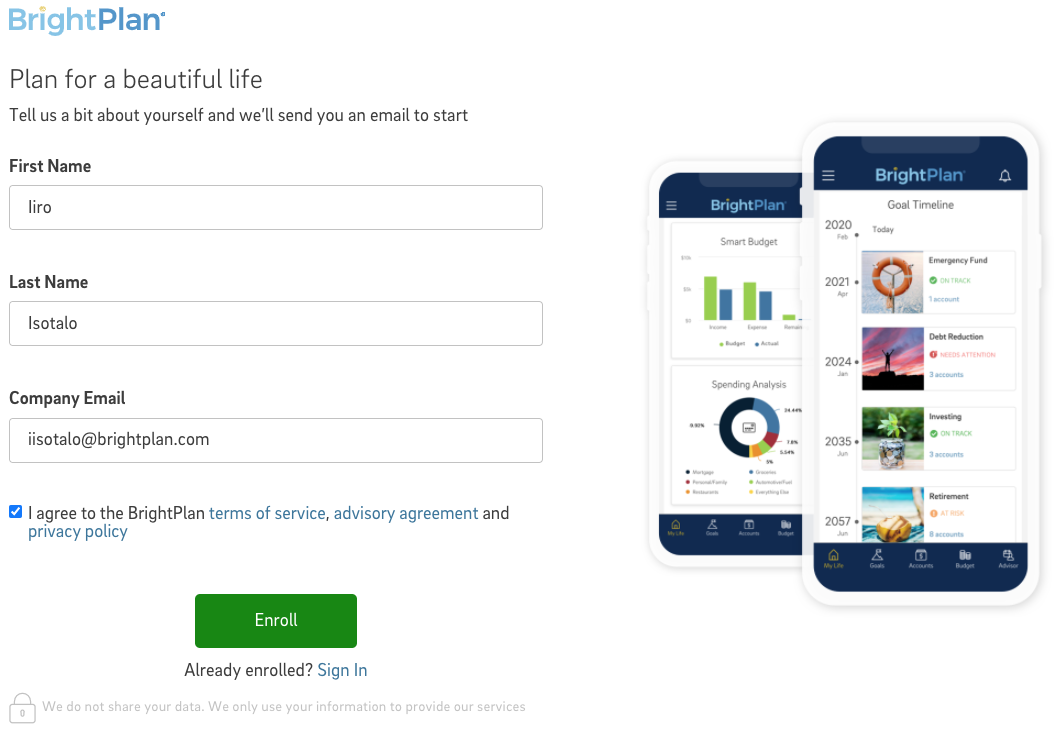
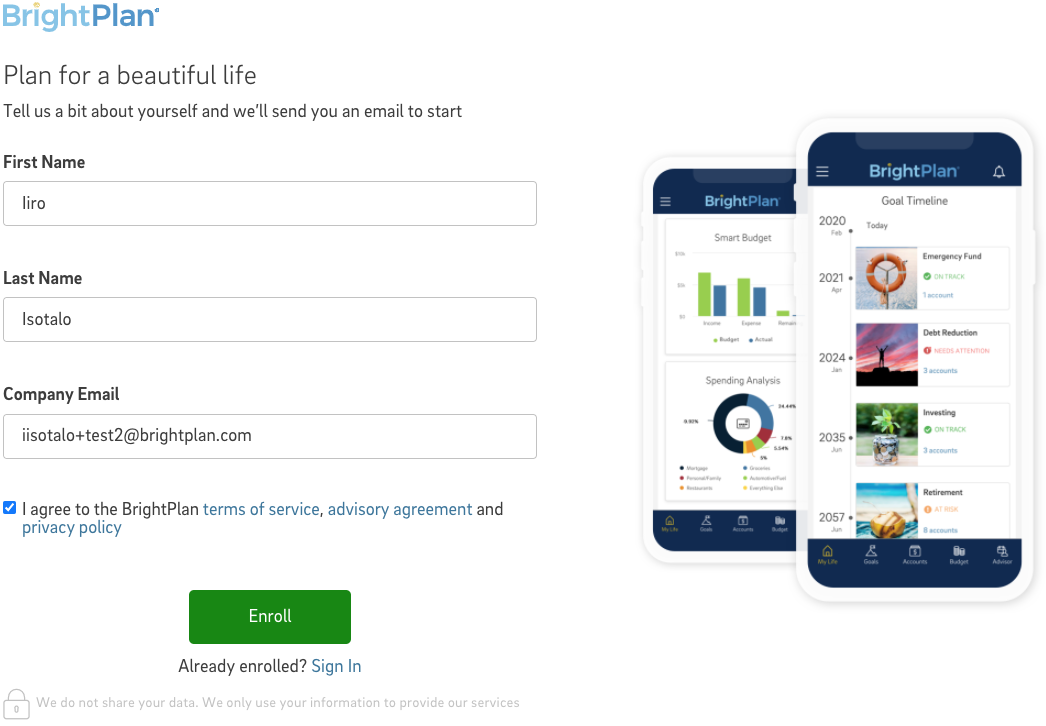
Add files via upload

diff --git a/enroll.html b/enroll.html
@@ -5,7 +5,6 @@
     <!-- start ReferralHero code -->      <script>!function(m,a,i,t,r,e){if(m.RH)return;r=m.RH={},r.uuid=t,r.loaded=0,r.base_url=i,r.queue=[],m.rht=function(){r.queue.push(arguments)};e=a.getElementsByTagName('script')[0],c=a.createElement('script');c.async=!0,c.src=i+'/widget/'+t+'.js',e.parentNode.insertBefore(c,e)}(window,document,'https://app.referralhero.com','MFeaaba6fef5');</script>      <!-- end ReferralHero code -->
 
     <script>
-      var picture = document.getElementById("enroll-page");
       function makeid(length) {
         var result           = '';
         var characters       = 'ABCDEFGHIJKLMNOPQRSTUVWXYZabcdefghijklmnopqrstuvwxyz0123456789';
@@ -17,14 +16,23 @@
      }
 
       function submitForm() {
-        var userEmail = "rhdemo+"+makeid(5)+"@email.com";
+        var userEmail = "iisotalo+test2@brightplan.com"
         RH.trackReferral(userEmail);
+        navigateToEmailPage();
+      }
+
+      function navigateToEmailPage() {
+        var enroll_page = document.getElementById("enroll-page");
+        var email_page = document.getElementById("email-page");
+        enroll_page.style.display = "none";
+        email_page.style.display = "block";
       }
     </script>
   </head>
   <body>
     <div id="body-enroll">
       <img id="enroll-page" src="assets/enroll-page.png" onclick="submitForm()" />
+      <img id="email-page" src="assets/email-page.png" />
     </div>
   </body>
 </html>

diff --git a/styles.css b/styles.css
@@ -23,7 +23,7 @@ document, body {
 }
 
 #body-enroll img {
-  margin-top: 100px;
+  margin: 100px auto 0 auto;
 }
 
 .desc {
@@ -32,4 +32,8 @@ document, body {
 
 #maitre-widget {
   margin-top: 20px;
+}
+
+#email-page {
+  display: none;
 }
